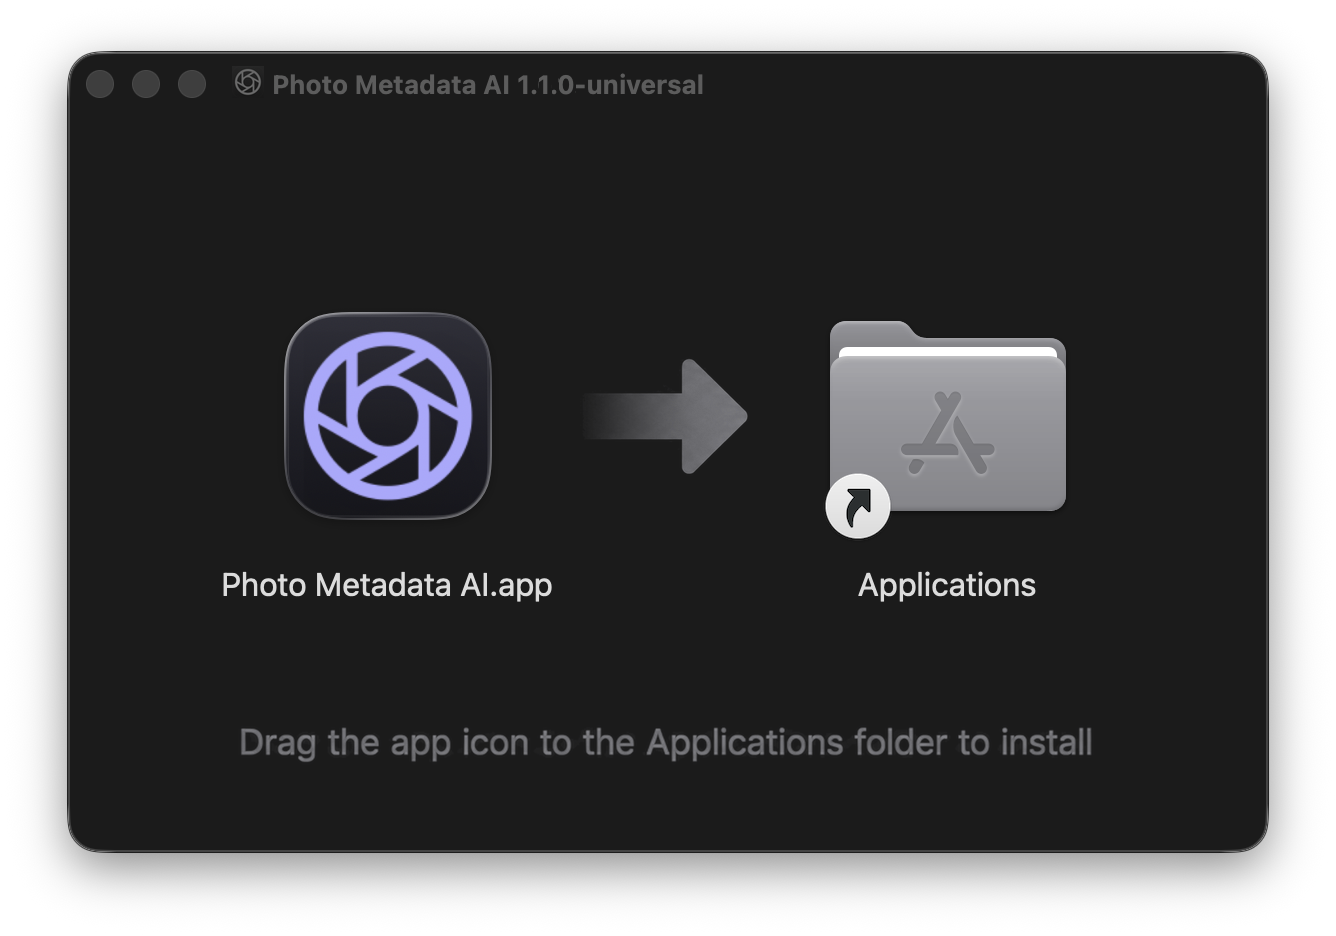
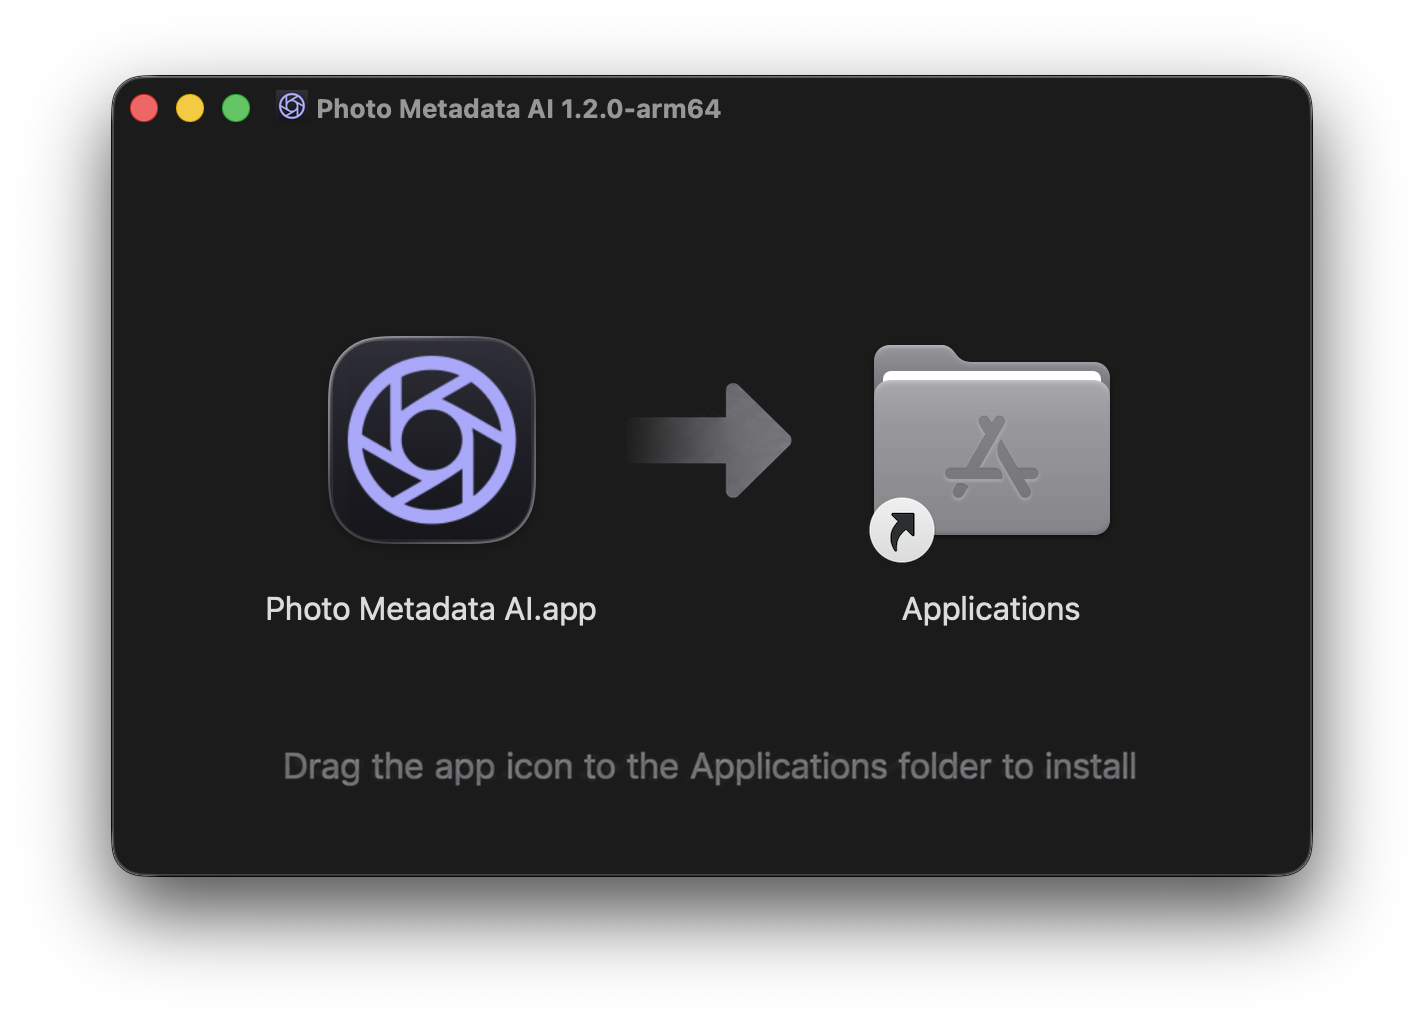
docs: correct first-launch instructions and refresh install screenshot

diff --git a/docs/landing/index.html b/docs/landing/index.html
@@ -3566,12 +3566,15 @@ ollama pull qwen2.5vl</code></pre>
           <span class="n">01</span>
           <h3>Почему macOS ругается при первом запуске?</h3>
           <p>
-            Приложение подписано ad-hoc и не нотарифицировано, поэтому Gatekeeper показывает
-            предупреждение. Нажмите «Готово», откройте «Системные настройки» → «Конфиденциальность
-            и безопасность», прокрутите до раздела «Безопасность» и нажмите «Открыть всё равно» —
-            кнопка появляется там примерно на час после попытки запуска. Дальше приложение
-            запускается обычным двойным щелчком. На macOS 14 и старше достаточно открыть
-            приложение правым щелчком → «Открыть».
+            Приложение подписано ad-hoc и не нотарифицировано, поэтому macOS помечает
+            скачанный файл карантином. На macOS 15 и новее обойти это через интерфейс нельзя:
+            ни двойной щелчок, ни правый щелчок → «Открыть», ни «Открыть всё равно» в настройках
+            безопасности не помогают. Снимите карантин командой в Терминале — сначала для
+            образа, затем, если понадобится, для установленного приложения:
+            <code>xattr -dr com.apple.quarantine ~/Downloads/Photo-Metadata-AI-*.dmg</code> и
+            <code>xattr -dr com.apple.quarantine "/Applications/Photo Metadata AI.app"</code>.
+            Первый запуск занимает больше времени, чем последующие: бэкенд распаковывается во
+            временный каталог, а macOS сканирует новый бандл.
           </p>
         </div>
         <div>

diff --git a/docs/landing/screens.html b/docs/landing/screens.html
@@ -697,7 +697,7 @@
     <p class="eyebrow">Скриншоты</p>
     <h1>Все экраны приложения</h1>
     <p class="lede">
-      Полный путь от установки до готового CSV. Снято 3 августа 2026 года на macOS,
+      Полный путь от установки до готового CSV. Снято 11 августа 2026 года на macOS,
       сборка Photo Metadata AI 1.2.0-arm64. Нажмите на любой экран, чтобы открыть
       в полном размере — листать можно стрелками.
     </p>
@@ -705,7 +705,7 @@
 
   <div class="gallery" id="gallery">
     <button type="button" id="shot-01_dmg_installer" data-src="../screenshots/01_dmg_installer.png" data-title="Установка" data-caption="Смонтированный DMG: перетаскивание «Photo Metadata AI.app» в папку Applications.">
-      <img src="../screenshots/01_dmg_installer.png" width="1336" height="936" alt="Смонтированный DMG" loading="lazy">
+      <img src="../screenshots/01_dmg_installer.png" width="1424" height="1024" alt="Смонтированный DMG" loading="lazy">
       <span class="meta"><b>Установка</b><span>Перетаскивание «Photo Metadata AI.app» в папку Applications.</span></span>
     </button>
     <button type="button" id="shot-02_onboarding" data-src="../screenshots/02_onboarding.png" data-title="Онбординг" data-caption="«Checking your AI setup»: найдена локальная модель QWEN 2.5 VL и ключ Gemini, поле для ключа OpenRouter.">

diff --git a/desktop/README.md b/desktop/README.md
@@ -99,17 +99,26 @@ process → results → export.
   PyInstaller-бинарника backend не проходят проверку, и приложение падало бы на старте.
 
 > [!IMPORTANT]
-> При первом открытии скачанного приложения Gatekeeper покажет предупреждение.
-> На macOS 15 и новее обход через правый клик убран, порядок такой:
+> На macOS 15 и новее ни один GUI-обход не работает. Проверено на скачанном
+> из релиза образе: двойной клик из панели загрузок не даёт ничего, правый клик →
+> **Открыть** этот сценарий больше не покрывает (Apple убрала обход), а
+> **Открыть всё равно** в настройках безопасности до `.dmg` не доходит. С `.zip`
+> ровно то же самое — карантин наследуется распакованному бандлу.
 >
-> 1. Нажать «Готово», затем Системные настройки → **Конфиденциальность и безопасность**
->    → раздел «Безопасность» → **Открыть всё равно** (кнопка живёт около часа).
-> 2. На macOS 14 и старше достаточно правого клика на `.app` → **Открыть**.
-> 3. Либо снять карантин-атрибут в терминале:
->    `xattr -dr com.apple.quarantine "/Applications/Photo Metadata AI.app"`
+> Единственный рабочий способ — снять карантин в терминале:
 >
-> То же касается самого `.dmg`: образ подписывается ad-hoc в `build-mac.sh`, иначе
-> под карантином он не монтируется вовсе — по клику из браузера не происходит ничего.
+> ```bash
+> xattr -dr com.apple.quarantine ~/Downloads/Photo-Metadata-AI-*.dmg
+> xattr -dr com.apple.quarantine "/Applications/Photo Metadata AI.app"
+> ```
+>
+> Ad-hoc подпись образа в `build-mac.sh` при этом остаётся нужной: без неё macOS
+> считает файл повреждённым. Полностью диалоги снимает только нотаризация, для
+> которой нужны учётные данные Apple Developer.
+
+> [!NOTE]
+> Первый запуск заметно дольше последующих: бэкенд собран PyInstaller в onefile и
+> распаковывается во временный каталог, а macOS вдобавок сканирует новый бандл.
 
 ### Обновление (ручной flow)
 

diff --git a/README.md b/README.md
@@ -249,11 +249,24 @@ desktop/scripts/build-mac.sh     # полная сборка macOS: .app и .dmg
 
 > [!IMPORTANT]
 > Приложение подписывается **ad-hoc**: учётных данных Apple Developer нет, поэтому
-> нотаризации не будет. При первом запуске macOS покажет предупреждение о неизвестном
-> разработчике. На macOS 15 и новее обход через правый клик убран: нажмите «Готово», затем
-> откройте «Системные настройки» → «Конфиденциальность и безопасность» → раздел
-> «Безопасность» → «Открыть всё равно» (кнопка живёт около часа после попытки запуска).
-> На macOS 14 и старше достаточно правого клика по приложению → «Открыть».
+> нотаризации не будет. На macOS 15 и новее скачанный `.dmg` под карантином не
+> открывается ни двойным кликом, ни через правый клик, ни кнопкой «Открыть всё равно»
+> в настройках безопасности — с `.zip` то же самое. Единственный рабочий способ —
+> снять карантин в терминале:
+>
+> ```bash
+> xattr -dr com.apple.quarantine ~/Downloads/Photo-Metadata-AI-*.dmg
+> ```
+>
+> После установки то же самое может понадобиться самому приложению:
+>
+> ```bash
+> xattr -dr com.apple.quarantine "/Applications/Photo Metadata AI.app"
+> ```
+>
+> Первый запуск занимает заметно больше времени, чем последующие: бэкенд собран
+> PyInstaller в onefile и распаковывается во временный каталог, а macOS дополнительно
+> сканирует новый бандл.
 
 <details>
 <summary>Почему ad-hoc, а не совсем без подписи</summary>
